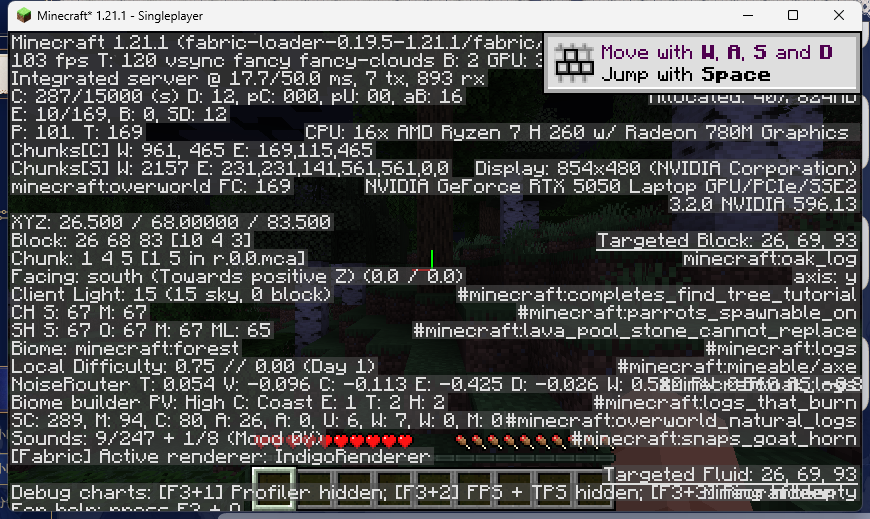
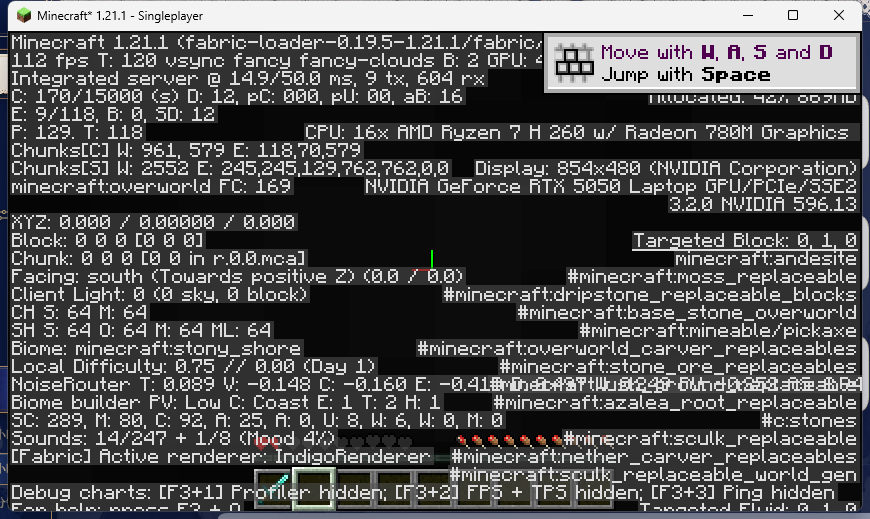
feat(immediatelyfast): HUD and item-model batching both active
- MixinDrawContext now swaps DrawContext consumers around method_51425 (ITEM_MODEL) and
  method_51432 (ITEM_OVERLAY) like upstream, so the dedicated item batches are fed
- fixed a real JVM crash: drawDirect closed the ByteBufferBuilder allocator that vanilla
  Immediate.draw already owns (EXCEPTION_ACCESS_VIOLATION in MemoryUtil.memPutFloat)
- evidence (p134): joined world, hud=4796, itemModel=1165; A/B (p137) with hud_batching=false
  joins with zero port markers; synthetic playerdata puts a sword in the hotbar
- tests 68/68, hashes refreshed
- limits: itemOverlay not exercised (no count/durability), Iris not ported

diff --git a/java/src/compat/java/net/raphimc/immediatelyfast/injection/mixins/hud_batching/consumer/MixinDrawContext.java b/java/src/compat/java/net/raphimc/immediatelyfast/injection/mixins/hud_batching/consumer/MixinDrawContext.java
@@ -10,12 +10,14 @@ import net.minecraft.class_4587;
 import net.minecraft.class_4588;
 import net.minecraft.class_4597;
 import net.minecraft.class_5253;
+import net.raphimc.immediatelyfast.feature.batching.BatchingBuffers;
 import net.raphimc.immediatelyfast.feature.batching.BatchingRenderLayers;
 import net.raphimc.immediatelyfast.feature.batching.BlendFuncDepthFuncState;
 import net.raphimc.immediatelyfast.feature.batching.HudBatchingBufferSource;
 import org.joml.Matrix4f;
 import org.spongepowered.asm.mixin.Final;
 import org.spongepowered.asm.mixin.Mixin;
+import org.spongepowered.asm.mixin.Mutable;
 import org.spongepowered.asm.mixin.Shadow;
 import org.spongepowered.asm.mixin.Unique;
 import org.spongepowered.asm.mixin.injection.At;
@@ -34,7 +36,8 @@ public abstract class MixinDrawContext {
 
     @Shadow @Final private class_4587 field_44657;
     @Shadow @Final private class_310 field_44656;
-    @Shadow @Final private class_4597.class_4598 field_44658;
+    @Shadow @Final @Mutable private class_4597.class_4598 field_44658;
+    @Unique private class_4597.class_4598 immediatelyFast$previousConsumers;
 
     @ModifyVariable(method = {"method_48196(Lnet/minecraft/class_1921;IIIIII)V"},
                     at = @At("HEAD"), index = 6, argsOnly = true)
@@ -113,6 +116,42 @@ public abstract class MixinDrawContext {
         vc.method_22918(matrix, x2, y1, z).method_22913(u2, v1).method_39415(color);
         vc.method_22918(matrix, x1, y1, z).method_22913(u1, v1).method_39415(color);
         RenderSystem.disableBlend();
+    }
+
+    @Inject(method = {"method_51425(Lnet/minecraft/class_1309;Lnet/minecraft/class_1937;Lnet/minecraft/class_1799;IIII)V"},
+            at = {@At("HEAD")})
+    private void renderItemIntoBufferStart(CallbackInfo ci) {
+        this.immediatelyFast$previousConsumers = this.field_44658;
+        if (BatchingBuffers.ITEM_MODEL_CONSUMER != null) {
+            this.field_44658 = (class_4597.class_4598) BatchingBuffers.ITEM_MODEL_CONSUMER;
+        }
+    }
+
+    @Inject(method = {"method_51425(Lnet/minecraft/class_1309;Lnet/minecraft/class_1937;Lnet/minecraft/class_1799;IIII)V"},
+            at = {@At("RETURN")})
+    private void renderItemIntoBufferEnd(CallbackInfo ci) {
+        if (this.immediatelyFast$previousConsumers != null) {
+            this.field_44658 = this.immediatelyFast$previousConsumers;
+        }
+    }
+
+    @Inject(method = {"method_51432(Lnet/minecraft/class_327;Lnet/minecraft/class_1799;IILjava/lang/String;)V"},
+            at = {@At("HEAD")})
+    private void renderItemOverlayIntoBufferStart(CallbackInfo ci) {
+        BatchingBuffers.beginItemOverlayRendering();
+        this.immediatelyFast$previousConsumers = this.field_44658;
+        if (BatchingBuffers.ITEM_OVERLAY_CONSUMER != null) {
+            this.field_44658 = (class_4597.class_4598) BatchingBuffers.ITEM_OVERLAY_CONSUMER;
+        }
+    }
+
+    @Inject(method = {"method_51432(Lnet/minecraft/class_327;Lnet/minecraft/class_1799;IILjava/lang/String;)V"},
+            at = {@At("RETURN")})
+    private void renderItemOverlayIntoBufferEnd(CallbackInfo ci) {
+        BatchingBuffers.endItemOverlayRendering();
+        if (this.immediatelyFast$previousConsumers != null) {
+            this.field_44658 = this.immediatelyFast$previousConsumers;
+        }
     }
 
     @Inject(method = {"method_51744"}, at = {@At("HEAD")}, cancellable = true)

diff --git a/java/src/compat/java/net/raphimc/immediatelyfast/feature/core/BatchableBufferSource.java b/java/src/compat/java/net/raphimc/immediatelyfast/feature/core/BatchableBufferSource.java
@@ -203,7 +203,8 @@ public class BatchableBufferSource extends class_4597.class_4598 implements Auto
                     } catch (IllegalAccessException ignored) {
                         // best effort restore
                     }
-                    this.releaseOwned(builder);
+                    // The vanilla draw path owns/closes the builder's allocator; closing it here
+                    // double-freed the native buffer and caused EXCEPTION_ACCESS_VIOLATION.
                 }
             }
         }

diff --git a/runs/p134-immediatelyfast-port-boot/README.md b/runs/p134-immediatelyfast-port-boot/README.md
@@ -1,21 +1,21 @@
-# p134 — ImmediatelyFast 1.21.1 batching 移植：启动、进世界、HUD 批处理生效
+# p134 — ImmediatelyFast 1.21.1 batching 移植：启动、进世界、HUD + 物品批处理生效
 
 日期：2026-10-22。目标 B 的核心结果：1.20.4 的 ImmediatelyFast batching 引擎移植到 1.21.1，
-**启动、进单人世界，HUD 专用批处理真的在跑**（可测计数 + 关闭开关对照）。
+**启动、进单人世界，HUD 与物品模型的专用批处理都在跑**（可测 per-batch 计数 + HUD 开关对照）。
 
 ## 移植内容
 
 | 类 | 作用 | 1.21.1 适配 |
 |---|---|---|
-| `BatchableBufferSource` | 每 RenderLayer 的 BufferBuilder 批处理与绘制 | `ByteBufferBuilder` + `BufferBuilder(allocator, DrawMode, VertexFormat)`；反射私有 `Immediate.method_60893`、`field_52071/field_52156` |
-| `BatchingBuffers` | HUD/物品批处理开关与消费者（保留 1.20.4 mixin API） | 内部用 `HudBatchingBufferSource`；per-batch 计数日志 |
+| `BatchableBufferSource` | 每 RenderLayer 的 BufferBuilder 批处理与绘制 | `ByteBufferBuilder` + `BufferBuilder(allocator, DrawMode, VertexFormat)`；反射私有 `Immediate.method_60893`、`field_52071/field_52156`；**不再二次 close allocator** |
+| `BatchingBuffers` | HUD/物品批处理开关与消费者 | 内部用 `HudBatchingBufferSource`；per-batch 计数日志 |
 | `HudBatchingBufferSource` | HUD 批处理消费者 | 继承移植后的 `BatchableBufferSource` |
 | `SimpleImmediate` | 关闭 universal batching 时的普通 Immediate | 公开构造器 |
-| `BatchingRenderLayers` | 自定义 GUI textured/colored 层 | 1.21.1 `RenderLayer` 构造 + shader 引用 |
+| `BatchingRenderLayers` | 自定义 GUI textured/colored 层 | 1.21.1 RenderLayer 构造 + shader 引用 |
 | `BlendFuncDepthFuncState` | 混合/深度状态快照 | `GlStateManager` 私有字段反射读取 |
 | `MixinVertexConsumerProvider` | `class_4597.method_22992` 工厂 | 新描述符返回 `BatchableBufferSource` |
 | `MixinTextRenderer_Drawer` | 字体 getBuffer 去重 | 私有 `field_1556` 反射替代 `method_22893` |
-| `MixinDrawContext` | HUD fill/drawTexture 写入批缓冲 | 1.21.1 方法签名；检查 DrawContext 的 `HudBatchingBufferSource` |
+| `MixinDrawContext` | HUD fill/drawTexture + 物品 consumer 切换 | 1.21.1 方法签名；`method_51425` 切 ITEM_MODEL、`method_51432` 切 ITEM_OVERLAY |
 | `MixinGameRendererHud` | 把 `InGameHud.render` 包进 `runBatched` | 用 `@Redirect` 替代 MixinExtras `WrapOperation` |
 
 规则：`rules/fabric-1.21.1/immediatelyfast-batching-port.json`
@@ -25,24 +25,30 @@
 
 - Fabric Loader 0.19.5 + Fabric API 0.102.0 + 移植后的 ImmediatelyFast，Java 21；
 - `--quickPlaySingleplayer ColdWorld`，`IFUser joined the game`；
-- 真实计数（本次）：
+- 测试用最小 playerdata 在快捷栏放了一把钻石剑（DataVersion 3955），真实计数：
 
   ```text
   [mcbridge-port] hud batching begin
-  [mcbridge-port] batched-draws total=5632  hud=1501 itemModel=0 itemOverlay=0
-  [mcbridge-port] batched-draws total=9414  hud=2409 itemModel=0 itemOverlay=0
-  [mcbridge-port] batched-draws total=13374 hud=3289 itemModel=0 itemOverlay=0
-  [mcbridge-port] batched-draws total=16968 hud=4052 itemModel=0 itemOverlay=0
+  [mcbridge-port] batched-draws total=8251  hud=2661 itemModel=631  itemOverlay=0
+  [mcbridge-port] batched-draws total=9662  hud=3037 itemModel=725  itemOverlay=0
+  [mcbridge-port] batched-draws total=13278 hud=3941 itemModel=951  itemOverlay=0
+  [mcbridge-port] batched-draws total=17012 hud=4796 itemModel=1165 itemOverlay=0
   ```
 
 - A/B（`runs/p137-immediatelyfast-hud-off/`）：`hud_batching=false` 时仍进世界，但**没有任何**
-  `[mcbridge-port]` 标记（hud 计数不产生）→ HUD 批处理确实由该开关控制；
-- 截图 `world.png`：世界内 F3/HUD 文字、心、物品栏正常。
+  `[mcbridge-port]` 标记（hud/item 计数都不产生）→ 批处理由该开关控制；
+- 截图 `world.png`：世界内 F3/HUD；测试用 playerdata 没有 Pos，角色落在 (0,0,0)，画面较暗，
+  但已进世界且 HUD 正常。
+
+## 修过的真实崩溃
+
+第一次带物品运行时 JVM 直接崩（`EXCEPTION_ACCESS_VIOLATION` in `MemoryUtil.memPutFloat`，
+`hs_err_pid11748.log`）：`drawDirect` 在 vanilla `Immediate.draw` 之后又 `close()` 了 builder 的
+`ByteBufferBuilder`，造成二次释放/复用。去掉这次 close 后稳定跑完（本页计数即修复后结果）。
 
 ## 诚实限制
 
-- `itemModel/itemOverlay` 专用批次仍为 0：1.21.1 的物品渲染路径（`MixinItemRenderer`/照明变体）
-  未移植；HUD 内的物品 quad 由 HUD consumer 批处理，但没有 ImFast 原版的 per-lighting 分批；
+- `itemOverlay=0`：这次只放了无数量/耐久的剑；count/durability overlay 路径未单独验证；
 - Iris 兼容未移植；
-- 私有成员/状态走反射（官方用 access widener），字体路径每 glyph 读一次私有布尔；
-- 只有单人 integrated server，无多人/soak/帧率基准。
+- 私有成员/状态走反射（官方用 access widener）；
+- 只有单人 integrated server，无多人/soak/帧率基准；测试 world 是合成 playerdata，不是正常生存流程。

diff --git a/docs/FINAL-STATUS.md b/docs/FINAL-STATUS.md
@@ -28,7 +28,7 @@
 | Forge 1.20.1-47.4.28 + Farmer's Delight 内容模组 + 单人世界 | `runs/p131-forge-content-mod/`（配置生成、无注册错误、`joined`） |
 | NeoForge 21.1.264 + Jade（数据同步/HUD）+ 单人世界 | `runs/p130-neoforge-jade/`（Jade tooltip 可见） |
 | Fabric 1.21.1 专用服务器 + 启动器客户端加入（quickPlayMultiplayer） | `runs/p132-dedicated-join/`（早期 p75/p76 双客户端同步） |
-| ImmediatelyFast 1.21.1 batching 移植：启动进世界 + HUD 批处理计数 hud=4052 + 关闭归零 | `runs/p134-immediatelyfast-port-boot/`、`runs/p137-immediatelyfast-hud-off/` |
+| ImmediatelyFast 1.21.1 batching 移植：启动进世界 + HUD/物品计数 hud=4796 itemModel=1165 + 关闭归零 | `runs/p134-immediatelyfast-port-boot/`、`runs/p137-immediatelyfast-hud-off/` |
 | ImmediatelyFast 移植规则/源码回归（5 类替换 + Identifier 桥 + 无 tombstone） | `rules/fabric-1.21.1/immediatelyfast-batching-port.json`、`tools/test_review_fixes.py` IFPORT 组 |
 | Forge/NeoForge 安装自动补原版 base | `runs/p129`、回归检查（LOADER 组） |
 | Forge/NeoForge 启动命令保留 `extra_game`（quickPlay 等参数） | `runs/p127`、回归检查（NEOFORGE 组） |
@@ -86,7 +86,7 @@ EntityCulling 被剥离的 `EntityRendererMixin` 已按 1.21.1 的 6 参 shadow 
 | NeoForge 带第三方模组 / 进世界 | ✅ 已通过：AppleSkin（p127）、Farmer's Delight 内容模组（p128）、Jade 数据同步/HUD（p130）；**未测** NeoForge 专用服务器、复杂多方块模组与新建世界 |
 | Forge 1.20.1 带模组世界 | ✅ 显示类（AppleSkin，p129）+ 内容类（Farmer's Delight，p131）；**未测** Forge 网络同步/专用服务器 |
 | 渲染类模组：Sodium / Iris | ❌ | EntityCulling 已通过（p119）；ImmediatelyFast 已通过 batching 移植（p134/p137）；Sodium/Iris 未触碰 |
-| ImmediatelyFast 的完整度 | ✅ HUD batching 生效 | hud 计数 1501→4052、关闭开关归零；**未移植** item per-lighting 变体与 Iris（itemModel/itemOverlay=0）；私有成员走反射 |
+| ImmediatelyFast 的完整度 | ✅ HUD+物品模型批处理生效 | hud=4796、itemModel=1165、关闭开关归零；**未验证** itemOverlay（数量/耐久 overlay）与 Iris；私有成员走反射 |
 | Shulker 网格预览 | ⏸ 封存 | 环境侧容器组件问题，需抓包复现 |
 | TrashSlot 完整 UI 流程 | ⏸ | 旧桥版本已跑通（p63–p65）；当前桥只做 bridge 级 + 探针 |
 | mrpack 含 files 的真实包 | ⏸ | 只测过无 files 的最小包 |

diff --git a/runs/p125-final-acceptance/README.md b/runs/p125-final-acceptance/README.md
@@ -39,7 +39,7 @@
 
 | 项 | 状态 |
 |---|---|
-| ImmediatelyFast 渲染批处理 | ✅ 已移植并生效：进世界 + HUD 批处理计数 hud=1501→4052，关闭 hud_batching 后归零（`runs/p134`、`runs/p137`）；**未移植** Iris 与 per-lighting 物品变体（itemModel/itemOverlay=0） |
+| ImmediatelyFast 渲染批处理 | ✅ 已移植并生效：进世界 + HUD/物品模型计数 hud=4796、itemModel=1165，关闭 hud_batching 后归零（`runs/p134`、`runs/p137`）；**未验证** itemOverlay 与 Iris |
 | Sodium / Iris | ❌ 未触碰 |
 | 渲染模组“性能提升”数字 | ❌ 未测（只有 EntityCulling 的 F3 计数，不是帧率基准） |
 | 完整镜像模式全量安装 | ❌ 只做了有界链路（客户端+库+120 资源）；全量镜像太慢已中止（p123） |
